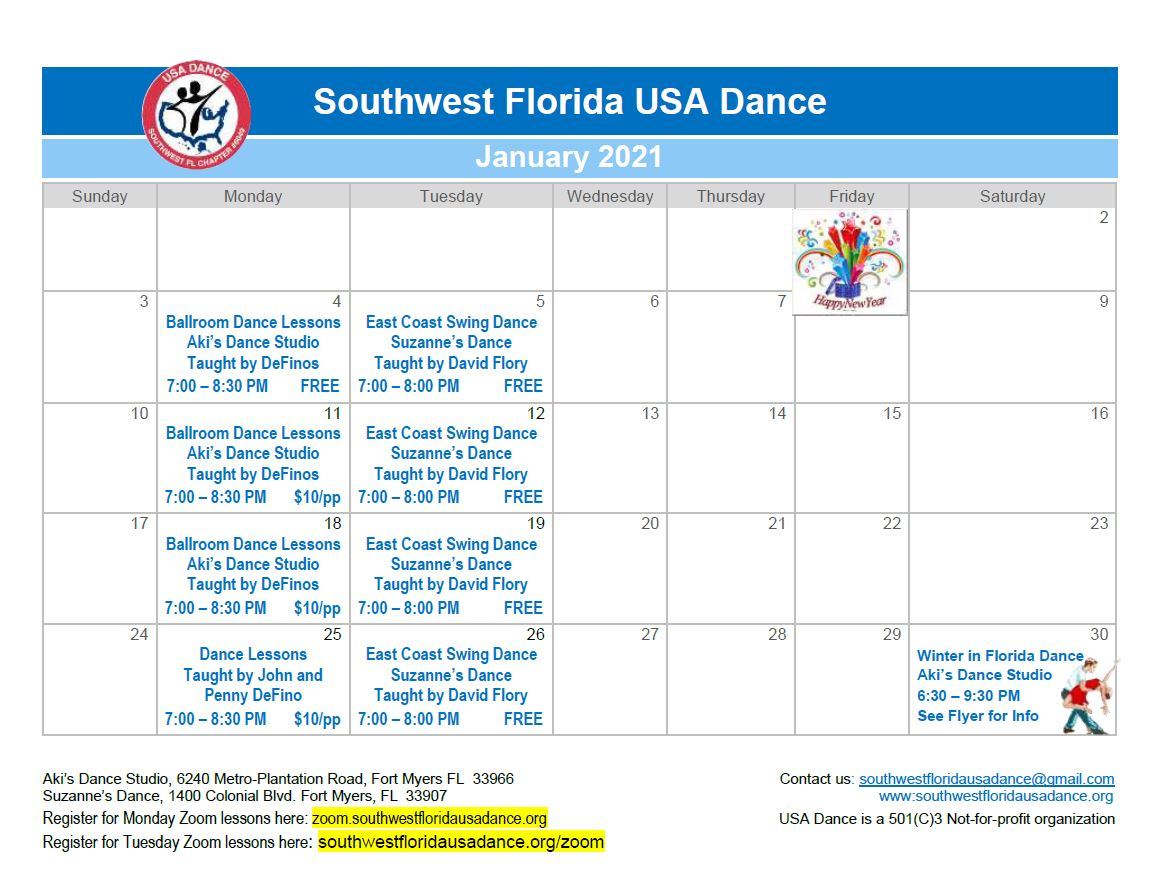
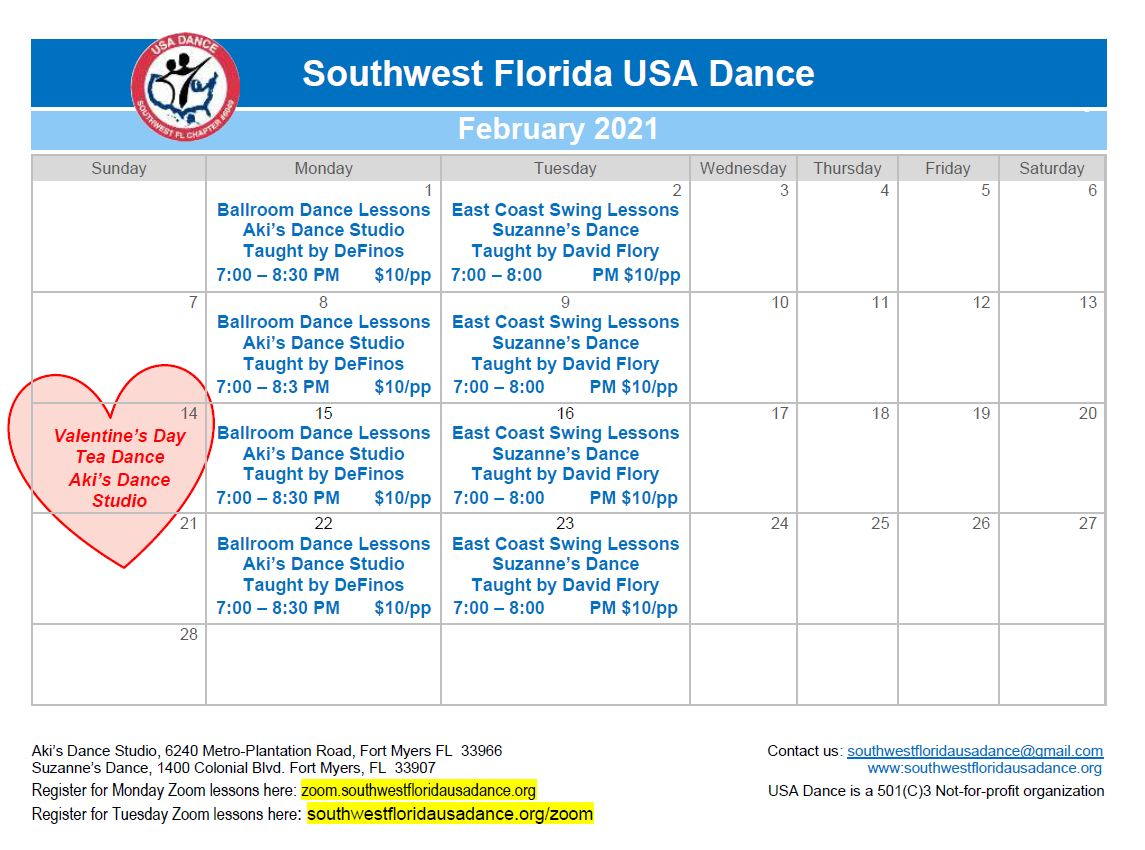
add february flyers

diff --git a/docs/index.html b/docs/index.html
@@ -231,7 +231,7 @@
                 </ol>
                 <div class="carousel-inner">
                   <div class="carousel-item active">
-                    <img class="d-block w-100" src="./img/announcements/winter-dance.jpg" alt="news">
+                    <img class="d-block w-100" src="./img/announcements/ladyinred.jpg" alt="news">
                   </div>
                   <div class="carousel-item">
                     <img class="d-block w-100" src="./img/announcements/calendar.jpg" alt="Tango Zoom">
